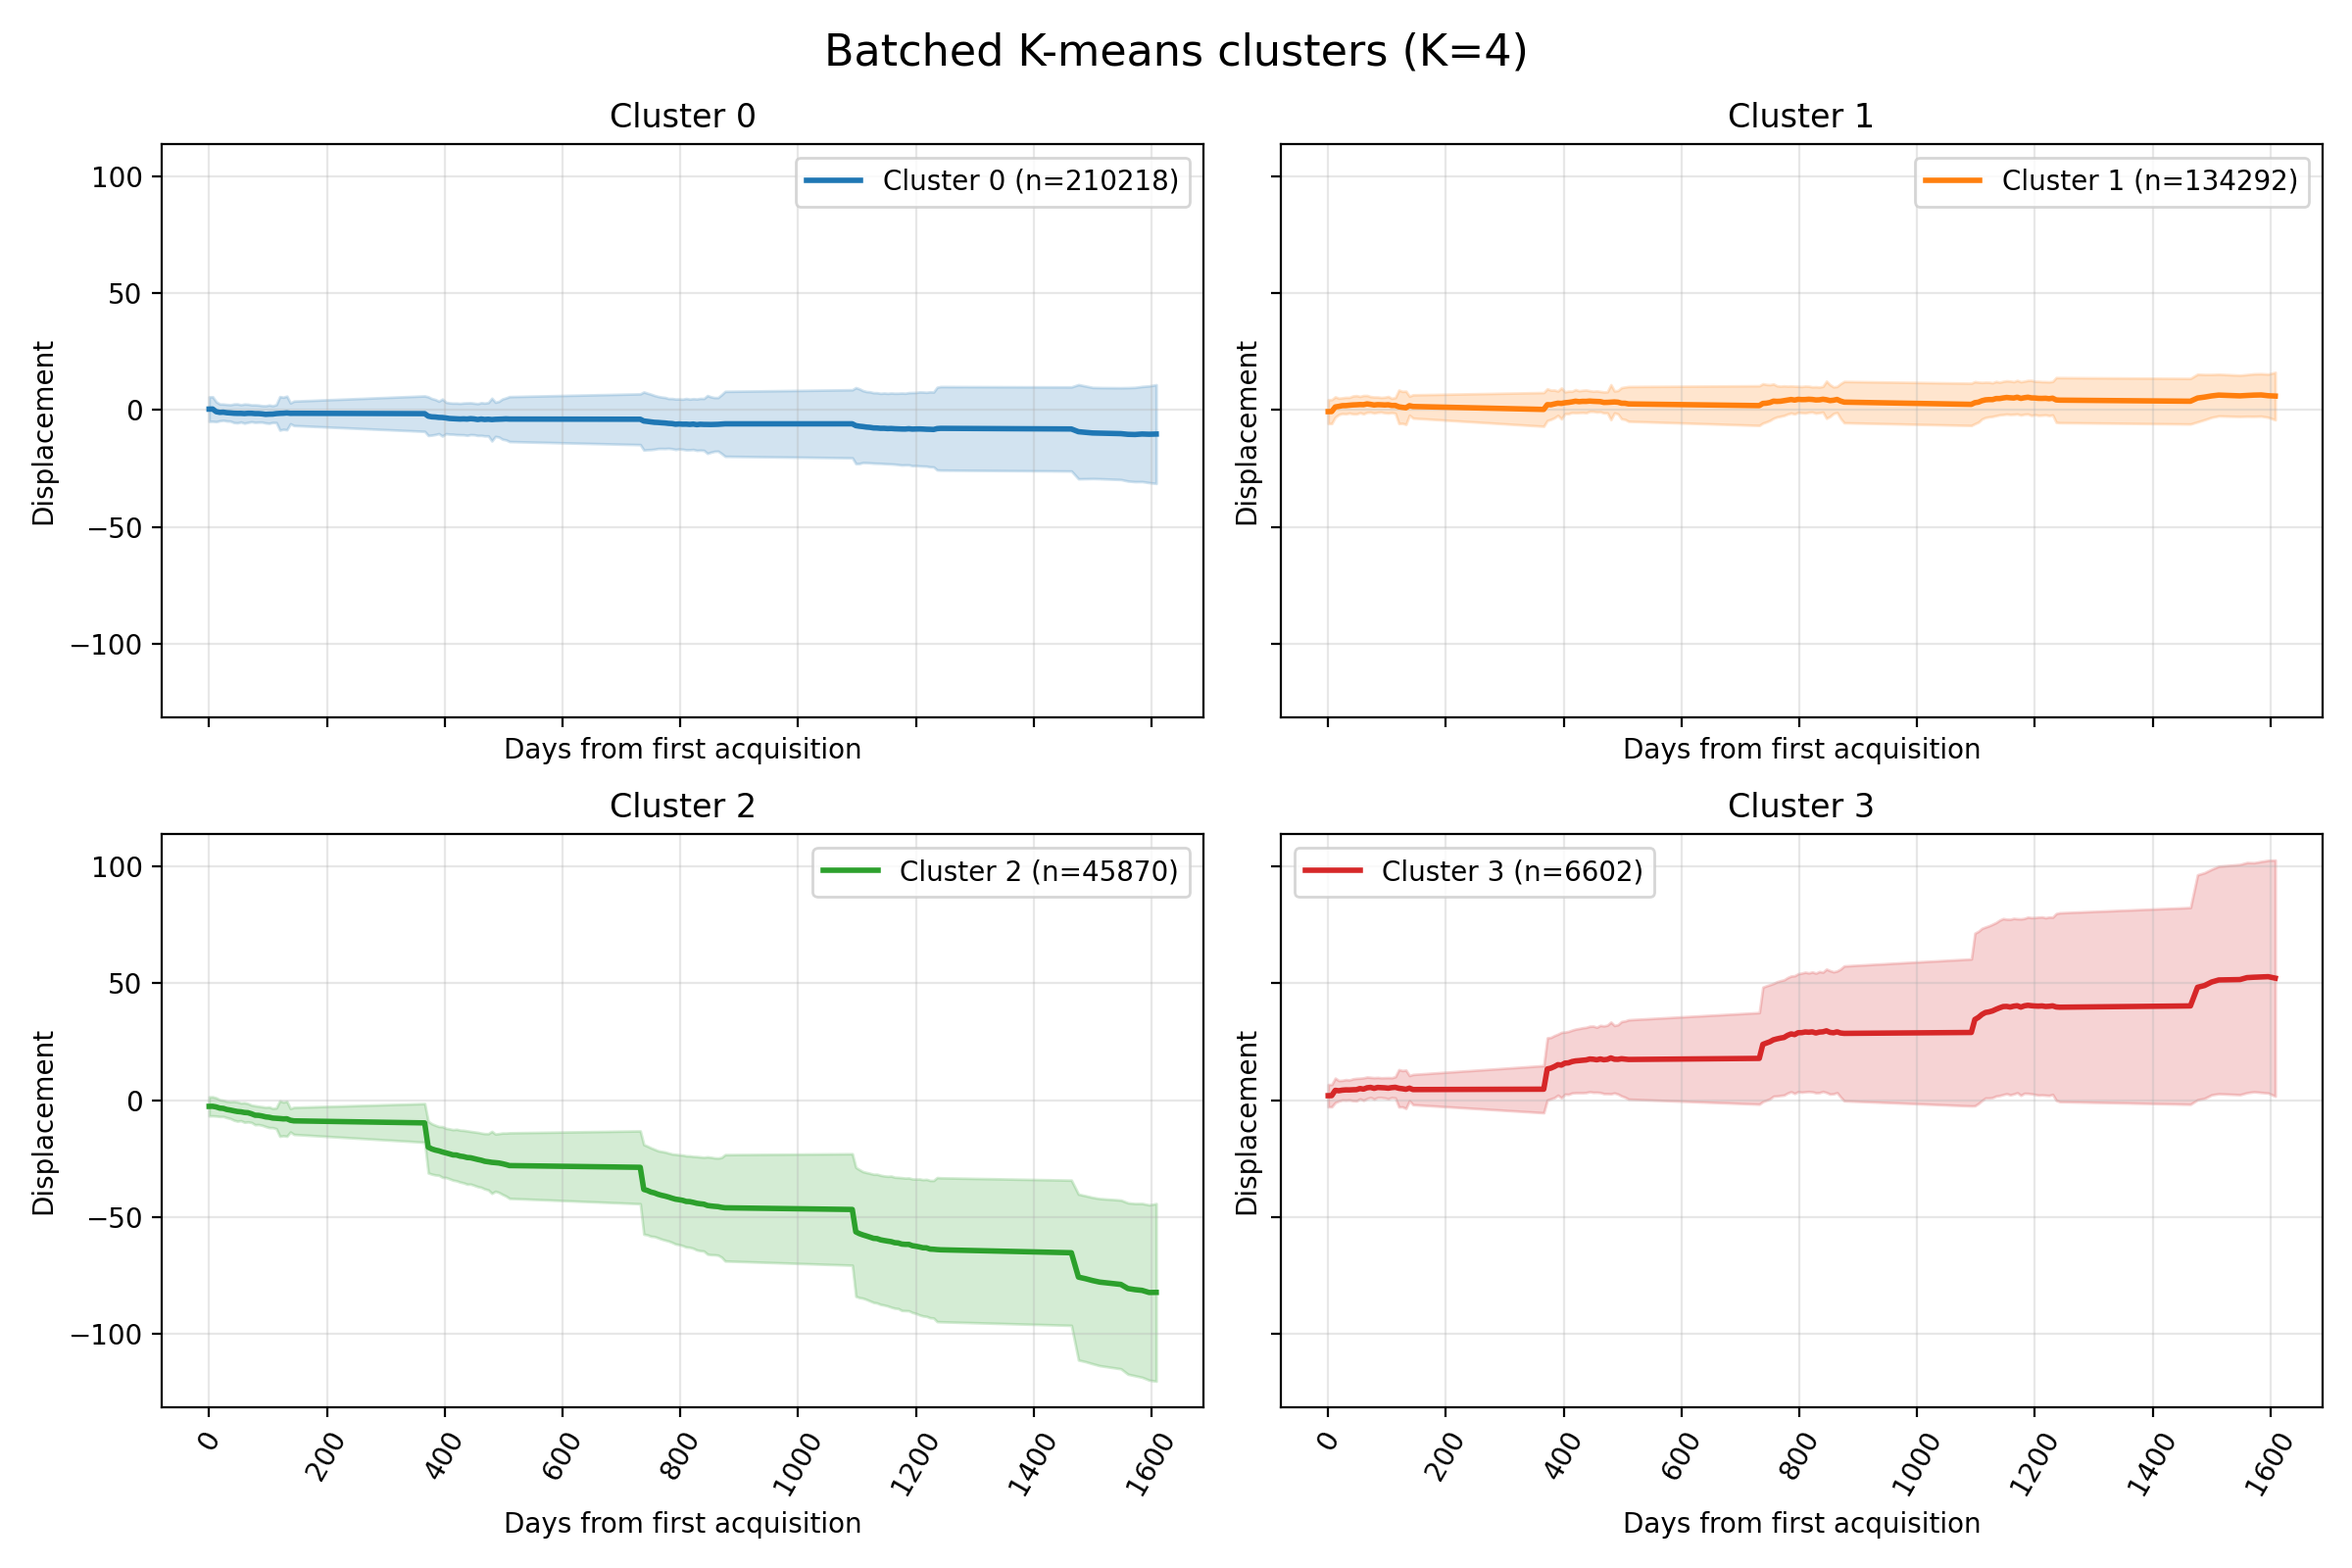
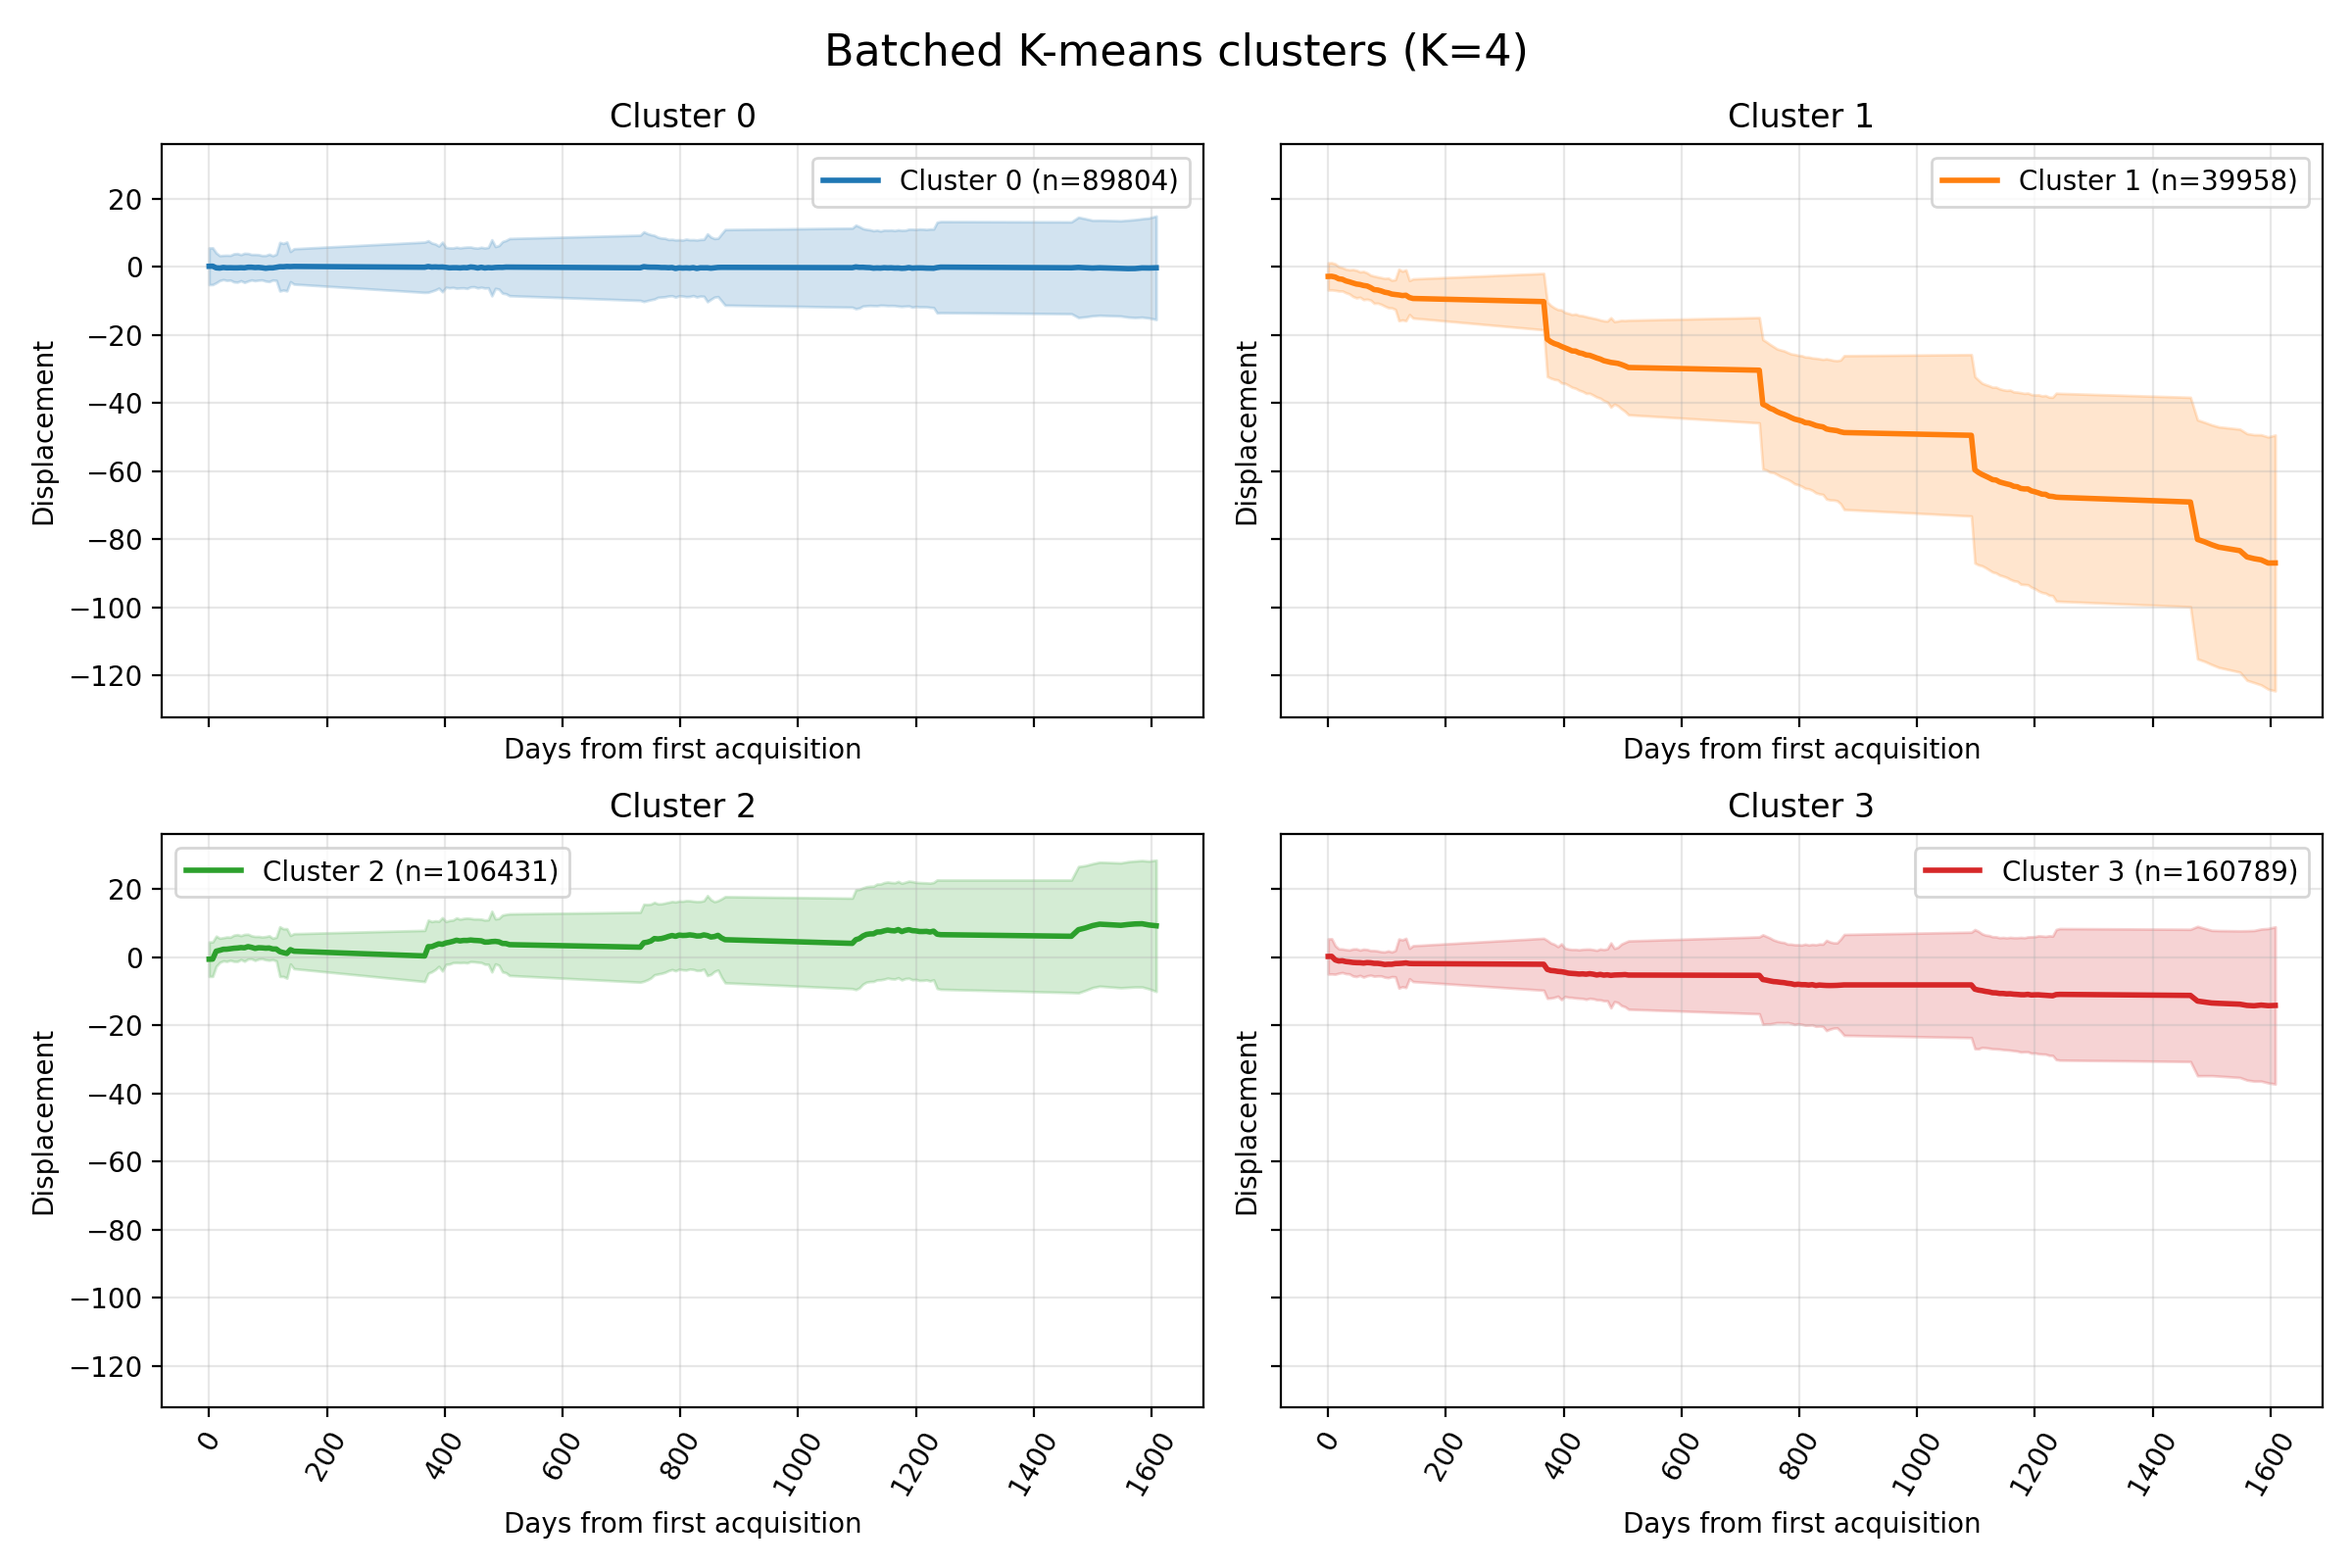
cluster smooth

diff --git a/_pages/spatial-smoothing-clustering.md b/_pages/spatial-smoothing-clustering.md
@@ -1,0 +1,78 @@
+---
+title: Spatial-Smoothing Clustering
+permalink: /clustering/spatial-smoothing-clustering/
+parent: Clustering
+---
+
+
+We repeated the same approach as in [Batched k-means]({{ '/clustering/batched-kmeans/# Batched $k$-Means overview' | relative_url }}) with the difference that the feature vectors are smoothed spatially.
+Smoothing is implemented by combining the features of each node with those of the neighborhood at $K$-hops:
+
+$$
+\boldsymbol{x}_i^{(k)} = \alpha \boldsymbol{x}_i^{(k - 1)} + (1 - \alpha) \left( \sum_{j \in \mathcal{N}_i} \boldsymbol{x}_j^{(k - 1)} \right) \qquad k=1, \dots, K
+$$
+
+where $\boldsymbol{x}_i^{(k)}$ are the features after applying smoothing $k$ times, $\alpha$ controls the smoothing level, and $\mathcal{N}_i$ is the neighborhood of the $i$-th node.
+At each iteration, the features are smoothed by combining them with neighbors from a larger neighbordhood, i.e., a neighbordhood reachable with multiple hops from the start.
+
+<img src="{{ '/assets/figs/clustering-smoothed/kmeans_smoothed.png' | relative_url }}" style="width: 100%; max-width: 650px; display: block; margin: 0 auto;">
+
+The graph is build (and sampled) as for in the [Graph Auto Encoder]({{ '/anomaly-detection/graph-autoencoder/# Graph Construction' | relative_url }}).
+
+## Results
+
+The results are obtained using $K=3$ hops. More hops would result in more smoothing, while less hops less smoothing.
+
+### Lyngen
+
+Clustering partition (dynamic features only).
+
+![]({{ '/assets/figs/clustering-smoothed/Lyngen-small_batched-kmeans-dyn_smoothed_map.png' | relative_url }})
+
+Mean and standard deviation of each cluster (dynamic features only).
+
+![]({{ '/assets/figs/clustering-smoothed/Lyngen-small_batched-kmeans-dyn_smoothed_clusters.png' | relative_url }})
+
+Clustering partition (dynamic and static features).
+
+![]({{ '/assets/figs/clustering-smoothed/Lyngen-small_batched-kmeans-dyn+static_smoothed_map.png' | relative_url }})
+
+Mean and standard deviation of each cluster (dynamic and static features).
+
+![]({{ '/assets/figs/clustering-smoothed/Lyngen-small_batched-kmeans-dyn+static_smoothed_clusters.png' | relative_url }})
+
+### Nordnes
+
+Clustering partition (dynamic features only).
+
+![]({{ '/assets/figs/clustering-smoothed/Nordnes_batched-kmeans-dyn_smoothed_map.png' | relative_url }})
+
+Mean and standard deviation of each cluster (dynamic features only).
+
+![]({{ '/assets/figs/clustering-smoothed/Nordnes_batched-kmeans-dyn_smoothed_clusters.png' | relative_url }})
+
+Clustering partition (dynamic and static features).
+
+![]({{ '/assets/figs/clustering-smoothed/Nordnes_batched-kmeans-dyn+static_smoothed_map.png' | relative_url }})
+
+Mean and standard deviation of each cluster (dynamic and static features).
+
+![]({{ '/assets/figs/clustering-smoothed/Nordnes_batched-kmeans-dyn+static_smoothed_clusters.png' | relative_url }})
+
+### Svalbard
+
+Clustering partition (dynamic features only).
+
+![]({{ '/assets/figs/clustering-smoothed/Svalbard-1_batched-kmeans-dyn_smoothed_map.png' | relative_url }})
+
+Mean and standard deviation of each cluster (dynamic features only).
+
+![]({{ '/assets/figs/clustering-smoothed/Svalbard-1_batched-kmeans-dyn_smoothed_clusters.png' | relative_url }})
+
+Clustering partition (dynamic and static features).
+
+![]({{ '/assets/figs/clustering-smoothed/Svalbard-1_batched-kmeans-dyn+static_smoothed_map.png' | relative_url }})
+
+Mean and standard deviation of each cluster (dynamic and static features).
+
+![]({{ '/assets/figs/clustering-smoothed/Svalbard-1_batched-kmeans-dyn+static_smoothed_clusters.png' | relative_url }})

diff --git a/_pages/batched-kmeans.md b/_pages/batched-kmeans.md
@@ -49,28 +49,22 @@ The batched version only needs a fraction of the dataset in memory at any point,
 
 ## Results
 
-The **dynamic** features are the [Reservoir embeddings]({{ '/anomaly-detection/autoencoder/#time-series-embedding-with-reservoir-computing' | relative_url }})
+The **dynamic** features are the [Reservoir embeddings]({{ '/anomaly-detection/autoencoder/#time-series-embedding-with-reservoir-computing' | relative_url }}).
 
-The **static** features in mainland Norway are:
+The **static** features in mainland Norway (Lyngen, Nordnes) are:
 
 - height
 - mean velocity
 - temporal coherence
 - aplitude dispersion
-- incidence angle
-- track angle
 
-On Svalbard data, the features are:
+On Svalbard data, the static features are:
 
 - ELEVATION
-- MAXDIS
-- RANGE
-- AZIMUTH
+- MAXDISP
 - COHERENCE
 - DEMERR
 - SLOPE
-- incidence_angle
-- track_angle
 - DOYMAX
 
 ### Lyngen
@@ -85,44 +79,44 @@ Mean and standard deviation of each cluster (dynamic features only).
 
 Clustering partition (dynamic and static features).
 
-![]({{ '/assets/figs/clustering/Lyngen-small_batched_kmeans_map_dyn+static.png' | relative_url }})
+![]({{ '/assets/figs/clustering/Lyngen-small_batched-kmeans-dyn+static_map.png' | relative_url }})
 
 Mean and standard deviation of each cluster (dynamic and static features).
 
-![]({{ '/assets/figs/clustering/Lyngen-small_batched_kmeans_cluster_dyn+static.png' | relative_url }})
+![]({{ '/assets/figs/clustering/Lyngen-small_batched-kmeans-dyn+static_clusters.png' | relative_url }})
 
 ### Nordnes
 
 Clustering partition (dynamic features only).
 
-![]({{ '/assets/figs/clustering/Nordnes_batched_kmeans_map_dyn.png' | relative_url }})
+![]({{ '/assets/figs/clustering/Nordnes_batched-kmeans-dyn_map.png' | relative_url }})
 
 Mean and standard deviation of each cluster (dynamic features only).
 
-![]({{ '/assets/figs/clustering/Nordnes_batched_kmeans_cluster_dyn.png' | relative_url }})
+![]({{ '/assets/figs/clustering/Nordnes_batched-kmeans-dyn_clusters.png' | relative_url }})
 
 Clustering partition (dynamic and static features).
 
-![]({{ '/assets/figs/clustering/Nordnes_batched_kmeans_map_dyn+static.png' | relative_url }})
+![]({{ '/assets/figs/clustering/Nordnes_batched-kmeans-dyn+static_map.png' | relative_url }})
 
 Mean and standard deviation of each cluster (dynamic and static features).
 
-![]({{ '/assets/figs/clustering/Nordnes_batched_kmeans_cluster_dyn+static.png' | relative_url }})
+![]({{ '/assets/figs/clustering/Nordnes_batched-kmeans-dyn+static_clusters.png' | relative_url }})
 
 ### Svalbard
 
 Clustering partition (dynamic features only).
 
-![]({{ '/assets/figs/clustering/Svalbard-1_batched_kmeans_map_dyn.png' | relative_url }})
+![]({{ '/assets/figs/clustering/Svalbard-1_batched-kmeans-dyn_map.png' | relative_url }})
 
 Mean and standard deviation of each cluster (dynamic features only).
 
-![]({{ '/assets/figs/clustering/Svalbard-1_batched_kmeans_cluster_dyn.png' | relative_url }})
+![]({{ '/assets/figs/clustering/Svalbard-1_batched-kmeans-dyn_clusters.png' | relative_url }})
 
 Clustering partition (dynamic and static features).
 
-![]({{ '/assets/figs/clustering/Svalbard-1_batched_kmeans_map_dyn+static.png' | relative_url }})
+![]({{ '/assets/figs/clustering/Svalbard-1_batched-kmeans-dyn+static_map.png' | relative_url }})
 
 Mean and standard deviation of each cluster (dynamic and static features).
 
-![]({{ '/assets/figs/clustering/Svalbard-1_batched_kmeans_cluster_dyn+static.png' | relative_url }})
+![]({{ '/assets/figs/clustering/Svalbard-1_batched-kmeans-dyn+static_clusters.png' | relative_url }})

diff --git a/_pages/clustering.md b/_pages/clustering.md
@@ -9,4 +9,4 @@ Clustering experiments aim to group time series with similar profiles.
 We contrast an approaches that looks only at the dynamical patterns with Graph Neural Networks approaches that also account for spatial proximity of the time series.
 
 - [Batched K-means]({{ '/clustering/batched-kmeans/' | relative_url }}) compresses the dataset with mini-batches and incremental centroid updates.
-- [GNN-based clustering]({{ '/clustering/gnn-based-clustering/' | relative_url }}) learns assignments from a GNN trained with losses inspired by spectral clustering.
+- [Spatial-Smoothing clustering]({{ '/clustering/spatial-smoothing-clustering/' | relative_url }}) learns assignments from a GNN trained with losses inspired by spectral clustering.

diff --git a/index.md b/index.md
@@ -23,4 +23,4 @@ Approaches that aim at detecting abnormal displacement patterns.
 Approaches that partition the InSAR data into coherent groups.
 
 - [Batched K-means]({{ '/clustering/batched-kmeans/' | relative_url }}) — partition the time series with a scalable mini-batch clustering approach for large data.
-- [GNN-based Clustering]({{ '/clustering/gnn-based-clustering/' | relative_url }}) — leverages graph neural networks to form clusters accounting for both temporal dynamics and spatial patterns.
+- [Spatial-Smoothing Clustering]({{ '/clustering/spatial-smoothing-clustering/' | relative_url }}) — leverages graph neural networks to form clusters accounting for both temporal dynamics and spatial patterns.
